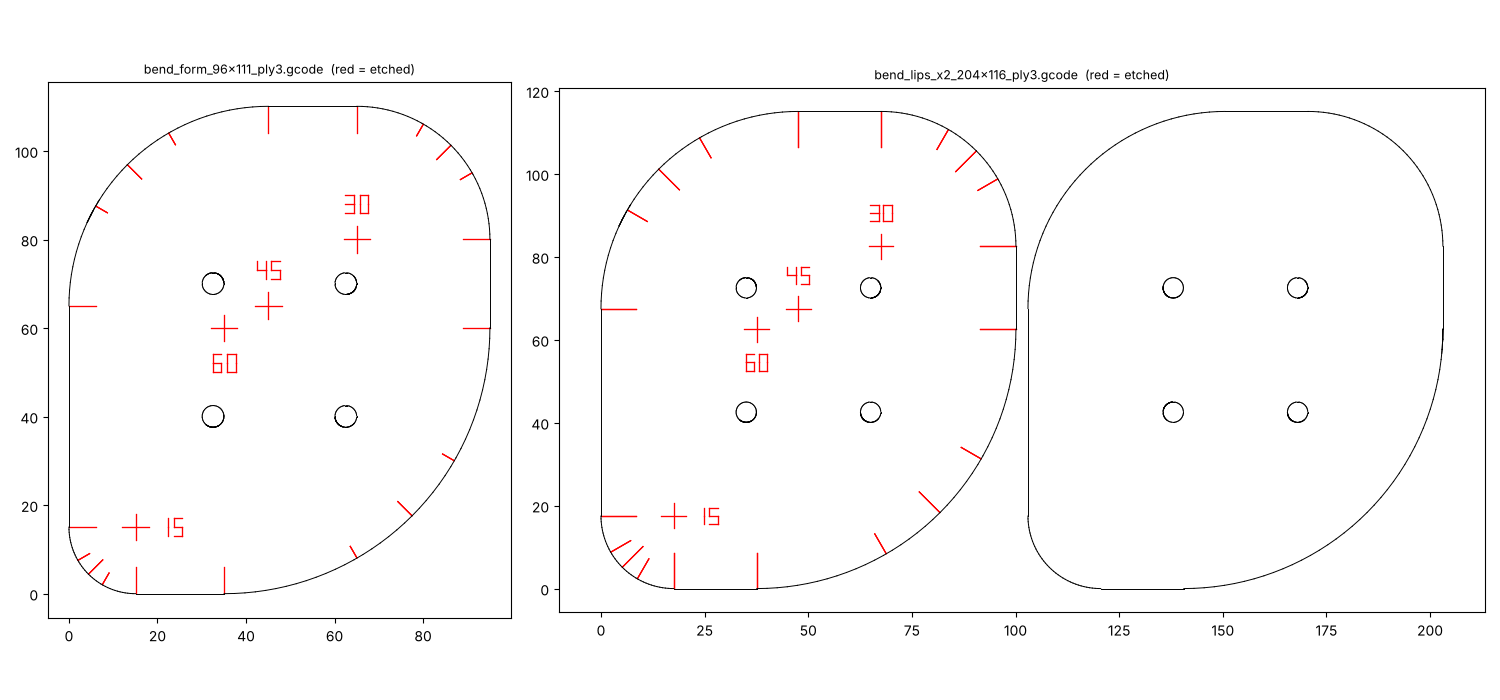
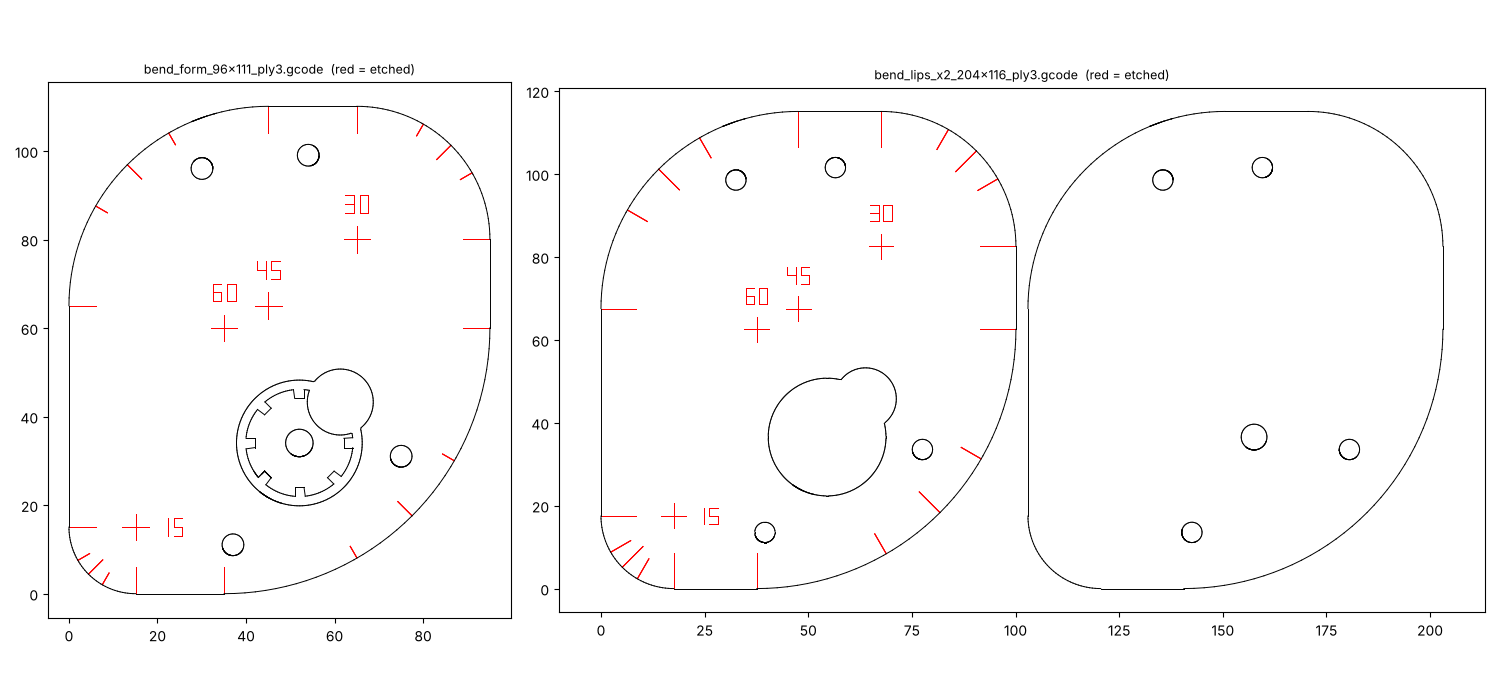
bend_jig: ring jig built into the form (ring hole + iron hole, mandrel core cut in place); top lip windowed over it, bottom lip has the rod hole; bolts re-placed round it
Claude-Session: https://claude.ai/code/session_01LQy87QnU21cWEAk5CN6jGY

diff --git a/marbles/clock/bend_jig.py b/marbles/clock/bend_jig.py
@@ -2,7 +2,8 @@
 """Wire bending form: a rounded rectangle with a different radius at each corner (15, 30, 45, 60 by default), straight
 sides between them. Bend a wire round a corner for a quarter turn at that radius. Optional lip plates (the same shape
 grown by LIP) go either side of the form to make a groove the wire can't jump out of: lip / form / lip, M5 bolts.
-Etched marks (form and the top lip): crosshairs at each corner's arc centre, its radius in digits, long ticks where the
+Ring jig built in (as the D jig): ring hole + iron hole, the mandrel core cut in place; the top lip has a window
+over it, the bottom lip a rod hole under the core. Etched marks (form and the top lip): crosshairs at each corner's arc centre, its radius in digits, long ticks where the
 curve starts and ends, short ticks at 30 / 45 / 60 deg round it.
 
     python3 marbles/clock/bend_jig.py      # -> marbles/gcode/bend_form_<W>x<H>_ply3.gcode, bend_lips_x2_<W>x<H>_ply3.gcode
@@ -33,6 +34,14 @@ args = ap.parse_args()
 
 M5 = 5.0
 WOOD = 8.0
+# ring jig (same as ring_jig_compact.py's D jig): ring hole with the mandrel core cut in place, iron hole at its top
+BORE, ROD, IRON, GROOVE_CLR = 20.0, 6.0, 15.0, 0.3
+RING_ID = BORE + 2 * args.wire
+RING_OD = RING_ID + 2 * args.wire
+RING_CL = RING_ID + args.wire
+HOLE = RING_OD + GROOVE_CLR
+ANGLES = (45, 135, 225, 315, 0, 90, 180, 270)
+RING_WOOD = 4.0
 
 
 def layout(radii):
@@ -69,12 +78,15 @@ TICK_END, TICK_MID, TICK_45 = 6.0, 3.0, 4.5     # tick lengths in from the edge:
 CROSS, LABEL_H = 3.0, 4.0
 
 
+RING_CUT = None
+
+
 def etch_marks(W, H, order, holes, out_to=0.0):
     """etched strokes [(x1, y1, x2, y2)]: crosshair at each arc centre, the radius in digits beside it, radial ticks at
     0 / 90 (start, end), 30 / 60 and 45 deg round each curve; ticks run from inside the edge out to out_to past it"""
     strokes = []
     cs = corners(W, H, order)
-    obst = [Point(h).buffer(M5 / 2 + 1.5) for h in holes] + [Point(c).buffer(CROSS + 1) for c, _, _ in cs]
+    obst = [Point(h).buffer(M5 / 2 + 1.5) for h in holes] + [Point(c).buffer(CROSS + 1) for c, _, _ in cs] + ([RING_CUT.buffer(1.5)] if RING_CUT is not None else [])
     for c, r, a0 in cs:
         cx, cy = c
         strokes += [(cx - CROSS, cy, cx + CROSS, cy), (cx, cy - CROSS, cx, cy + CROSS)]
@@ -100,9 +112,58 @@ def etch_marks(W, H, order, holes, out_to=0.0):
     return strokes
 
 
-def bolts(shape, W, H):
-    """4 M5 on a 30 square round the middle (same holes through form and lips): clear of the corner marks"""
-    return [Point(W / 2 + sx * 15, H / 2 + sy * 15) for sx, sy in ((-1, -1), (1, -1), (1, 1), (-1, 1))]
+def ring_parts(c, iron_dir):
+    """(hole cut-out incl. the iron hole, core cut in place) for a ring jig centred on c, iron hole toward iron_dir (deg)"""
+    t = math.radians(iron_dir)
+    ic = (c[0] + RING_CL / 2 * math.cos(t), c[1] + RING_CL / 2 * math.sin(t))
+    iron = Point(ic).buffer(IRON / 2, 96)
+    cut = unary_union([Point(c).buffer(HOLE / 2, 128), iron])
+    w = args.wire + 0.15
+    r = RING_ID / 2
+    notches = [affinity.rotate(box(r - args.wire, -w / 2, r + 1, w / 2), a, origin=(0, 0)) for a in ANGLES]
+    core = Point(0, 0).buffer(r, 128).difference(unary_union(notches + [Point(0, 0).buffer((ROD + 0.3) / 2, 48)]))
+    core = affinity.translate(core, *c).difference(iron)
+    return cut, core
+
+
+def place_ring(form0, W, H, order):
+    """centre + iron direction for the ring jig: inside the form with RING_WOOD all round and clear of the edge ticks and
+    the arc-centre crosshairs (the most clearance wins)"""
+    keep = form0.buffer(-(TICK_END + 1))
+    cross = unary_union([Point(cc).buffer(CROSS + 6) for cc, _, _ in corners(W, H, order)])
+    best = None
+    for i in range(0, int(W) + 1, 2):
+        for j in range(0, int(H) + 1, 2):
+            for d in range(0, 360, 45):
+                cut, _ = ring_parts((i, j), d)
+                f = cut.buffer(RING_WOOD)
+                if not keep.contains(f) or f.intersects(cross):
+                    continue
+                score = min(keep.exterior.distance(f), f.distance(cross))
+                if best is None or score > best[0]:
+                    best = (score, (i, j), d)
+    return best
+
+
+def bolts(shape, W, H, avoid):
+    """4 M5 (same holes through form and lips): one per quadrant, as far out as WOOD to the edge allows, clear of
+    `avoid` (the ring jig and the crosshairs) by RING_WOOD"""
+    inner = shape.buffer(-(M5 / 2 + WOOD))
+    out = []
+    for sx, sy in ((-1, -1), (1, -1), (1, 1), (-1, 1)):
+        best = None
+        for i in range(0, int(W) + 1, 1):
+            for j in range(0, int(H) + 1, 1):
+                if (i - W / 2) * sx < 3 or (j - H / 2) * sy < 3:
+                    continue
+                p = Point(i, j)
+                if inner.contains(p) and p.distance(avoid) >= M5 / 2 + RING_WOOD and all(p.distance(q) > 20 for q in out):
+                    d = p.distance(Point(W / 2, H / 2))
+                    if best is None or d > best[0]:
+                        best = (d, p)
+        if best:
+            out.append(best[1])
+    return out
 
 
 def write(name, polys, note, strokes=()):
@@ -133,24 +194,36 @@ def write(name, polys, note, strokes=()):
 
 
 def main():
+    global RING_CUT
     order, W, H = layout(args.radii)
     form0 = rounded_rect(W, H, order)
-    holes = bolts(form0, W, H)
-    lip0 = form0.buffer(args.lip, 64)
+    pr = place_ring(form0, W, H, order)
+    if pr is None:
+        sys.exit("no room for the ring jig on the form: raise --straight")
+    _, rcen, rdir = pr
+    RING_CUT, core = ring_parts(rcen, rdir)
+    cross = unary_union([Point(cc).buffer(CROSS + 12) for cc, _, _ in corners(W, H, order)])   # room for the labels
+    holes = bolts(form0, W, H, unary_union([RING_CUT, cross]))
     hm = unary_union([h.buffer(M5 / 2, 48) for h in holes])
-    form = form0.difference(hm)
-    lip = lip0.difference(hm)
+    form = form0.difference(hm).difference(RING_CUT)
+    lip0 = form0.buffer(args.lip, 64)
+    rod = Point(rcen).buffer((ROD + 0.3) / 2, 48)
+    lip_top = lip0.difference(hm).difference(RING_CUT)           # window over the ring jig
+    lip_bot = lip0.difference(hm).difference(rod)                # backs the groove; rod hole pins the core
     rc = [r + args.wire / 2 for r in order]
     print(f"form {W:g} x {H:g}: corners BL {order[0]:g}, BR {order[1]:g}, TR {order[2]:g}, TL {order[3]:g} "
           f"(wire centreline {', '.join(f'{x:.2f}' for x in rc)}); straight runs "
           f"{W - order[0] - order[1]:g} / {H - order[1] - order[2]:g} / {W - order[2] - order[3]:g} / {H - order[3] - order[0]:g}; "
           f"M5 at {[(round(p.x, 1), round(p.y, 1)) for p in holes]}")
-    write("bend_form", [form], f"bend form: corner radii {order} (BL, BR, TR, TL), M5 x4; etched centres, radii, 0/30/45/60/90 deg ticks",
-          etch_marks(W, H, order, holes))
+    print(f"ring jig: centre {rcen}, iron hole toward {rdir} deg; ring hole d{HOLE:.2f}, core d{RING_ID:.2f} cut in place, "
+          f"iron d{IRON:g}; clearance {pr[0]:.1f}")
+    write("bend_form", [core, form], f"bend form + ring jig: corner radii {order} (BL, BR, TR, TL), M5 x4; ring hole d{HOLE:.2f} "
+          f"with the mandrel core cut in place; etched centres, radii, ticks", etch_marks(W, H, order, holes))
     gap = 3.0
-    l2 = [lip, affinity.translate(lip, lip.bounds[2] - lip.bounds[0] + gap, 0)]
-    write("bend_lips_x2", l2, f"2 lip plates: the form grown {args.lip:g} (groove depth for a {args.wire:g} wire): lip / form / lip, M5 x4; "
-          "first one etched (top)", etch_marks(W, H, order, holes, out_to=args.lip))
+    dx = lip0.bounds[2] - lip0.bounds[0] + gap
+    write("bend_lips_x2", [lip_top, affinity.translate(lip_bot, dx, 0)],
+          f"2 lip plates (form grown {args.lip:g}): TOP (etched, window over the ring jig) / form / BOTTOM (rod hole under "
+          f"the core), M5 x4", etch_marks(W, H, order, holes, out_to=args.lip))
 
 
 if __name__ == "__main__":
